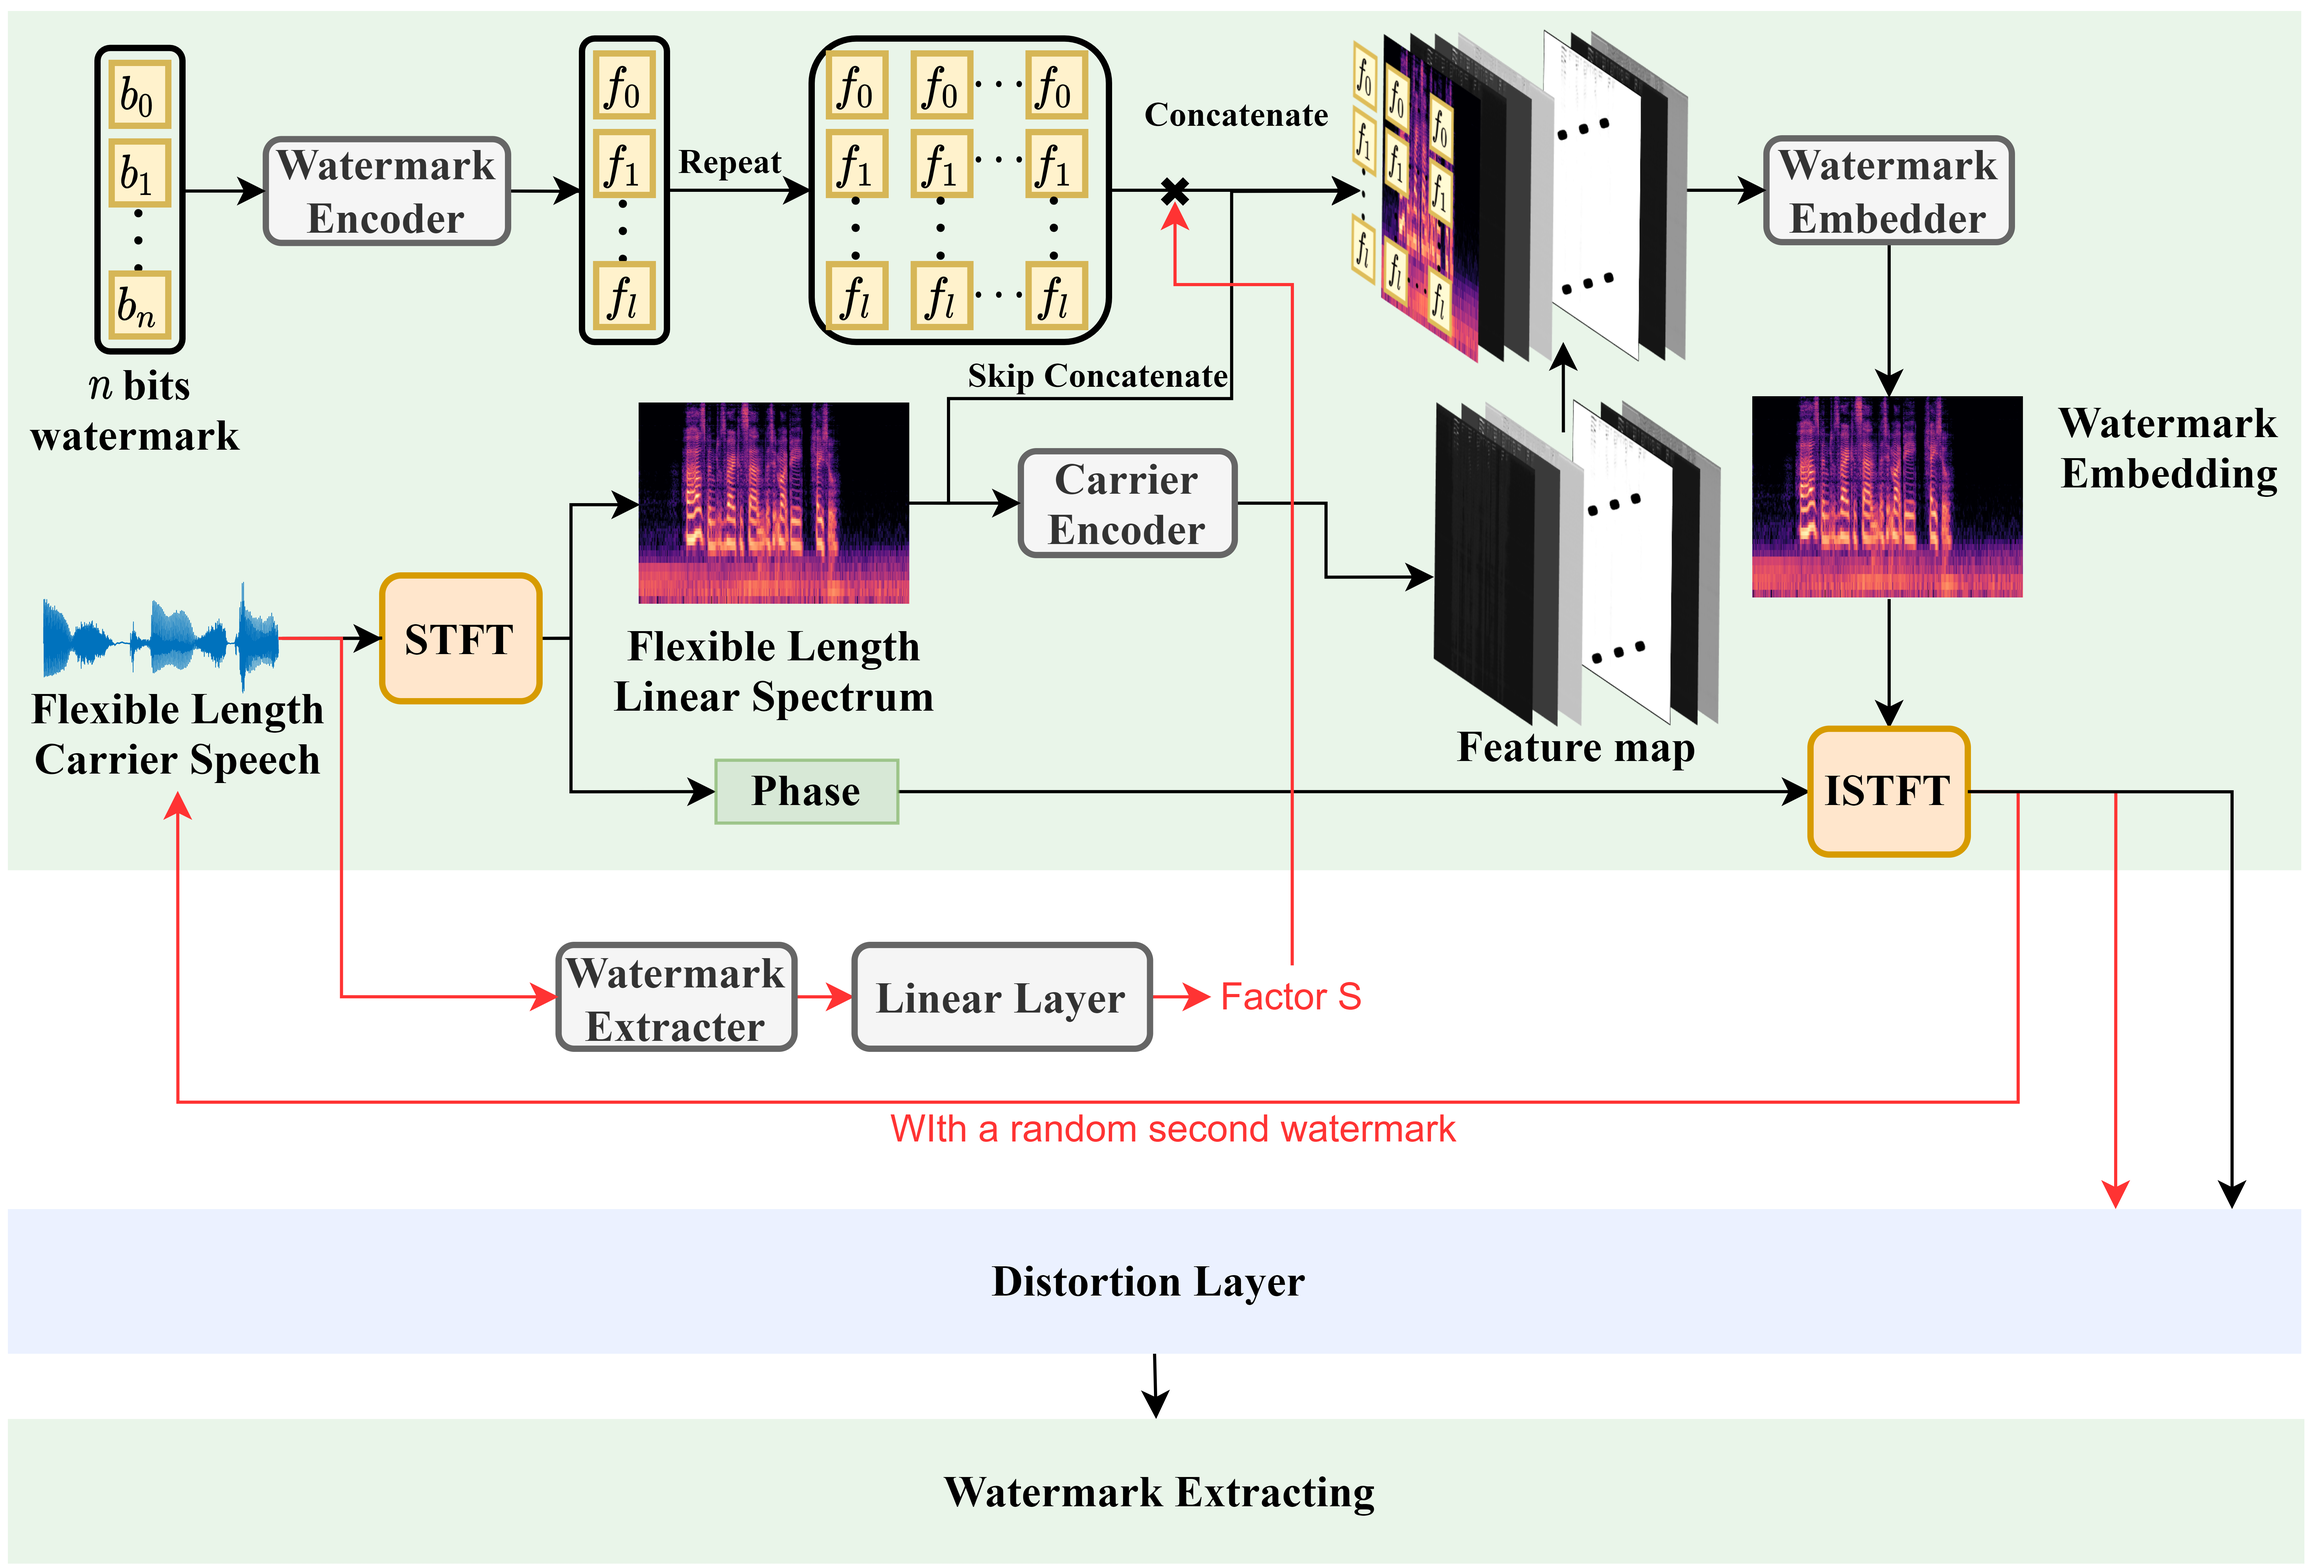
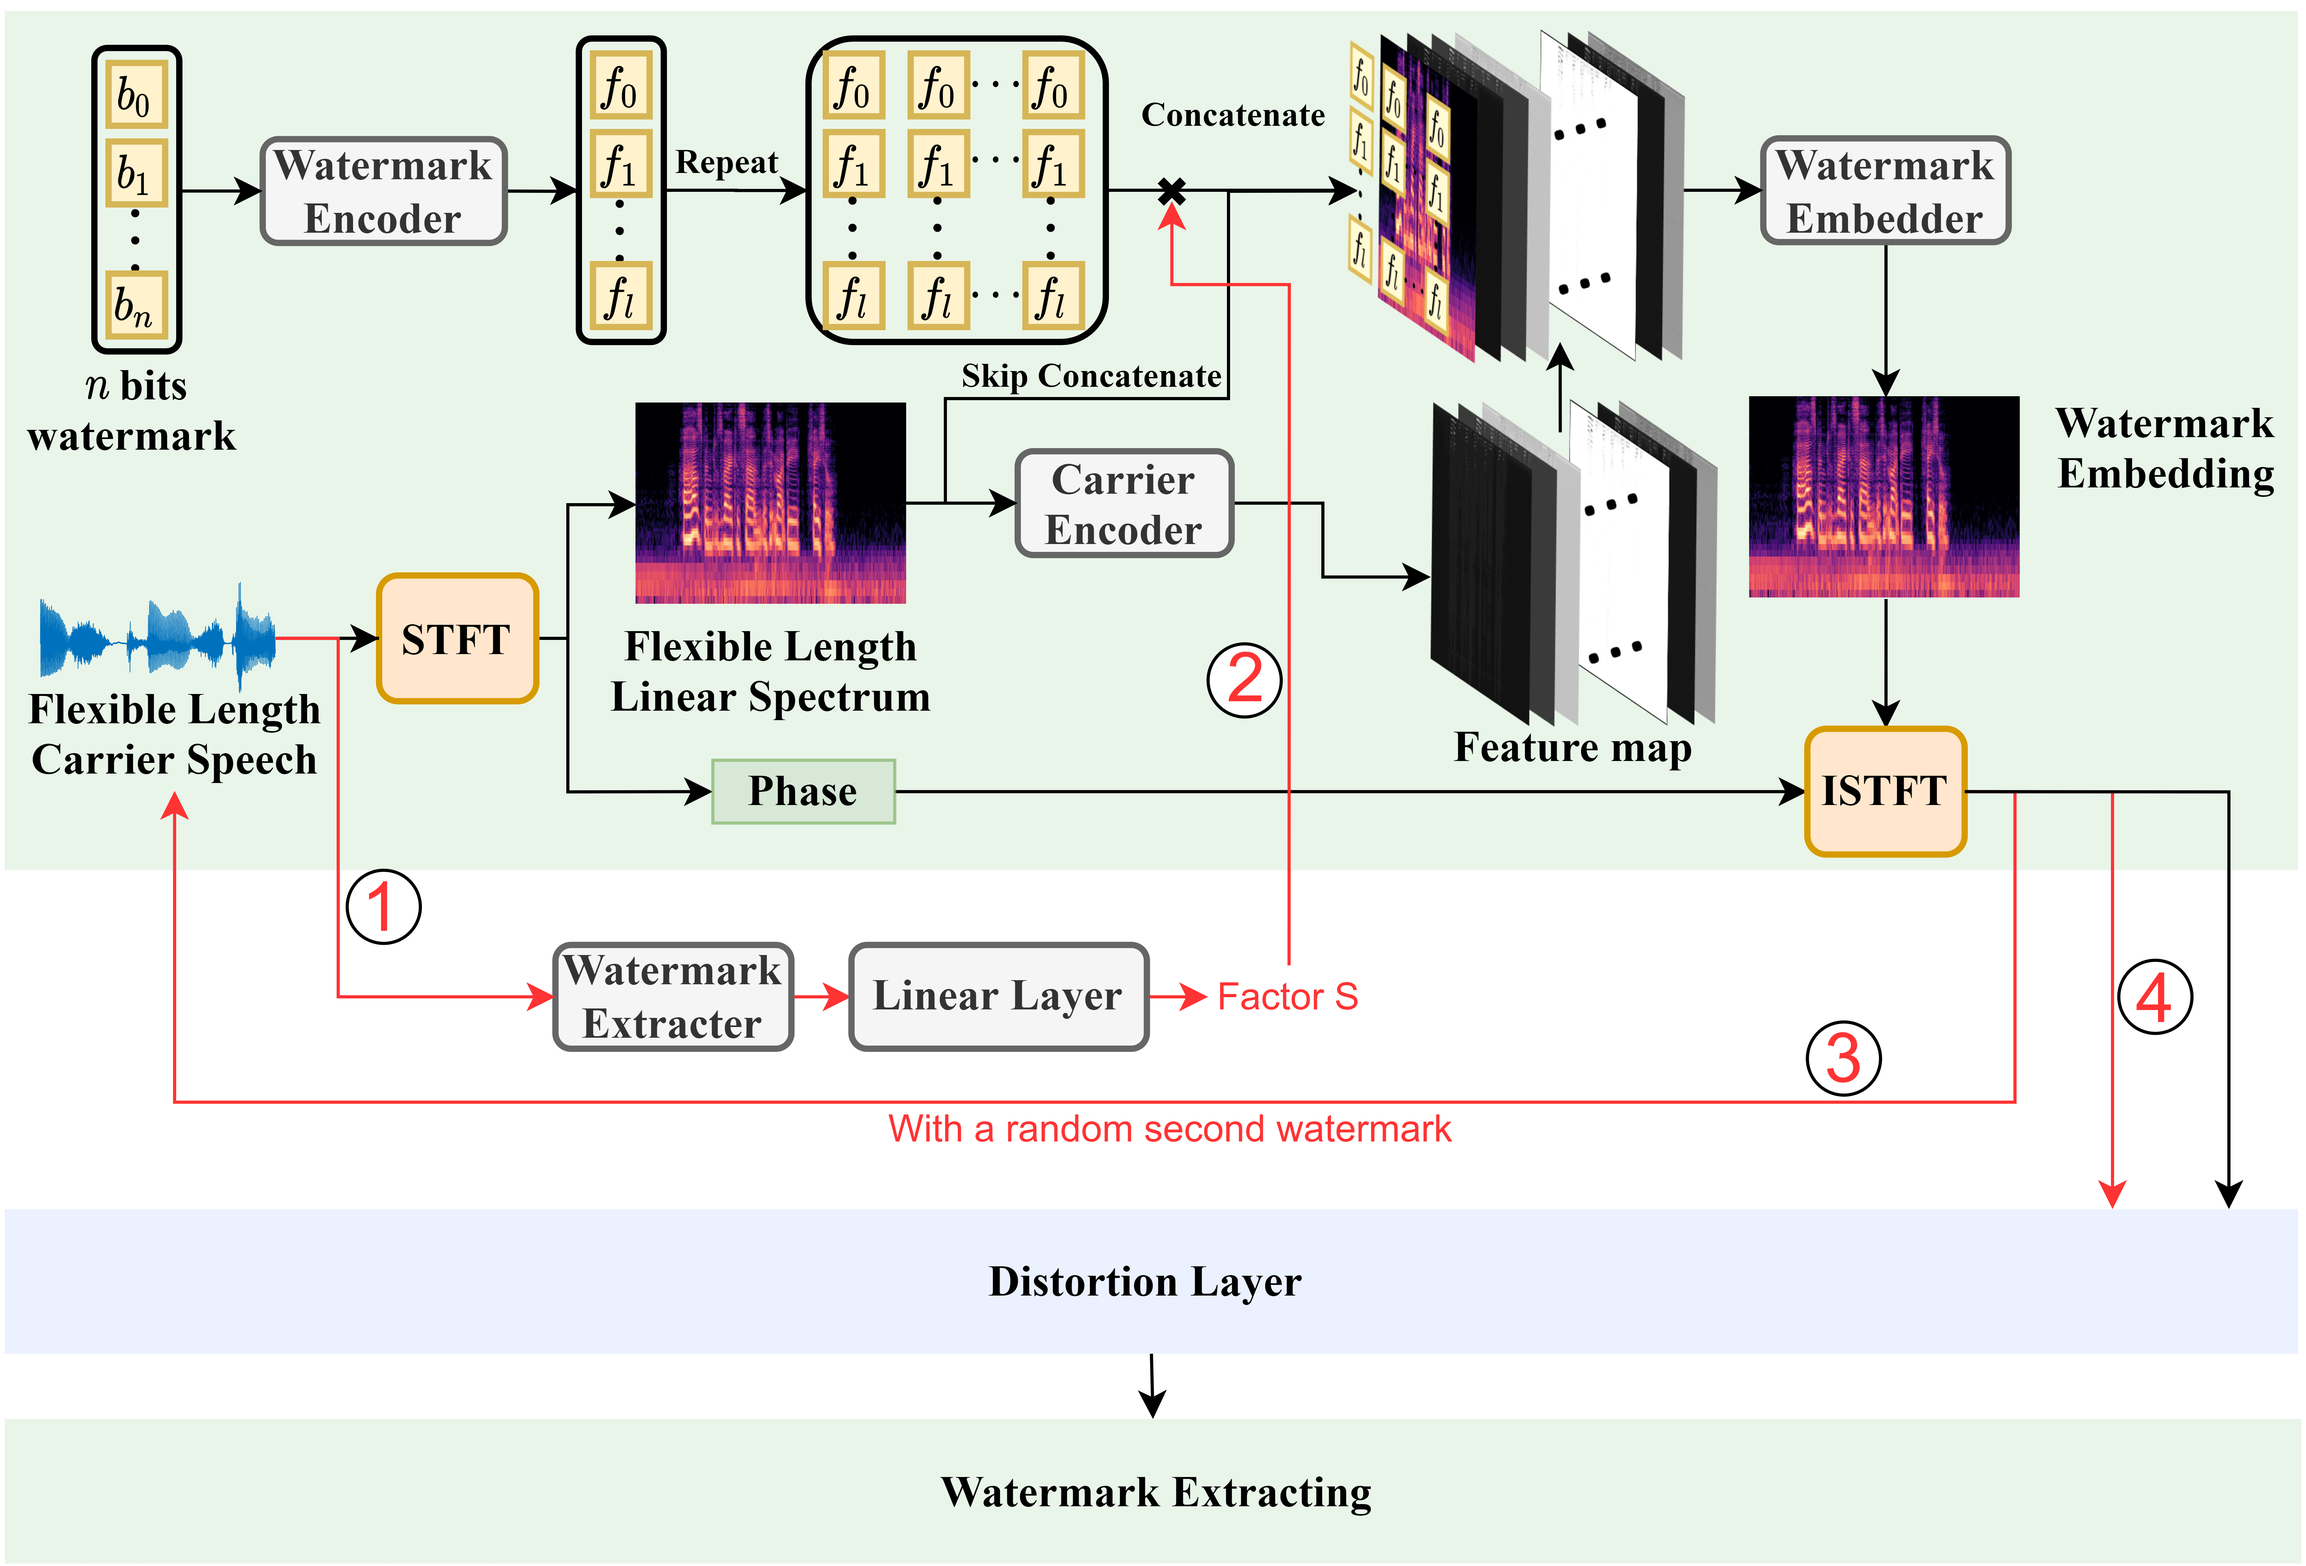
update

diff --git a/more_results.html b/more_results.html
@@ -29,8 +29,9 @@
 <section class="main-content">
       
   <div id="home">
-    <h2>Traditional watermarking samples</h2>
-    Traditional watermarking schemes are also reliably imperceptible, and some of their watermark samples are shown below, but they usually require strict synchronization mechanisms, which are corrupted by deep speech cloning models.
+    <h2>Samples of current audio watermarking methods</h2>
+    Current watermarking methods are also reliably imperceptible, some of their watermark samples are shown below. In the case of commonly used signal processing attacks, they can well balance the trade-off between fidelity and normal robustness.
+    But they usually require strict synchronization mechanisms and temporal logic, which are undermined by deep speech cloning models.
     <div class="table-container">
       <table>
         <tr>
@@ -43,14 +44,14 @@
             <td><audio controls><source src="samples\0+Watermark Fidelity\original cover\LJ001-0005.wav" type="audio/wav"></audio></td>
           </tr>
           <tr>
-            <td><a href="https://ieeexplore.ieee.org/document/9468371">FSVC</a></td><td><audio controls><source src="samples\0+Watermark Fidelity\FSVC\LJ001-0001.wav" type="audio/wav"></audio></td>
+            <td>FSVC<a href="https://ieeexplore.ieee.org/document/9468371">[1]</a></td><td><audio controls><source src="samples\0+Watermark Fidelity\FSVC\LJ001-0001.wav" type="audio/wav"></audio></td>
             <td><audio controls><source src="samples\0+Watermark Fidelity\FSVC\LJ001-0002.wav" type="audio/wav"></audio></td>
             <td><audio controls><source src="samples\0+Watermark Fidelity\FSVC\LJ001-0003.wav" type="audio/wav"></audio></td>
             <td><audio controls><source src="samples\0+Watermark Fidelity\FSVC\LJ001-0004.wav" type="audio/wav"></audio></td>
             <td><audio controls><source src="samples\0+Watermark Fidelity\FSVC\LJ001-0005.wav" type="audio/wav"></audio></td>
           </tr>
           <tr>
-            <td><a href="https://ieeexplore.ieee.org/document/8470100">RFDLM</a></td><td><audio controls><source src="samples\0+Watermark Fidelity\RFDLM\LJ001-0001.wav" type="audio/wav"></audio></td>
+            <td>RFDLM<a href="https://ieeexplore.ieee.org/document/8470100">[2]</a></td><td><audio controls><source src="samples\0+Watermark Fidelity\RFDLM\LJ001-0001.wav" type="audio/wav"></audio></td>
             <td><audio controls><source src="samples\0+Watermark Fidelity\RFDLM\LJ001-0002.wav" type="audio/wav"></audio></td>
             <td><audio controls><source src="samples\0+Watermark Fidelity\RFDLM\LJ001-0003.wav" type="audio/wav"></audio></td>
             <td><audio controls><source src="samples\0+Watermark Fidelity\RFDLM\LJ001-0004.wav" type="audio/wav"></audio></td>
@@ -62,17 +63,19 @@
       
 
     <h2>Distortion caused by ISTFT</h2>
-    In order to explore the impact of ISTFT distortion, we calculated the difference between the amplitude spectrum after embedding the watermark and the amplitude spectrum after performing ISTFT and STFT on it. 
+    In order to explore the impact of the loss of the complex imaginary part due to the ISTFT in the watermarking scheme, we calculated the difference between the amplitude spectrum after embedding the watermark and the amplitude spectrum after performing ISTFT and STFT on it. 
     It can be found that the difference between them is so small (i.e., average MSE 0.0020) that it does not destroy the watermarked signal. 
     A spectrogram example and the MSE of amplitude spectrum pair from all 2620 test samples are shown below.
     <div style="display: flex;">
       <div style="flex: 1; margin: 10px;">
-          <img src="figure/linear_wmed_amplitude_spectrogram.png" alt="Watermarked spectrum">
-          <p style="text-align: center; font-size: 13px; font-style:italic;">Watermarked spectrum</p>
+          <img src="figure/linear_wmed_amplitude_spectrogram.png" alt="Watermarked spectrum" width="89%">
+          <div style="width: 89%; ">
+          <p style="text-align: center; font-size: 13px; font-style:italic;">Watermarked spectrum</p></div>
       </div>
       <div style="flex: 1; margin: 10px;">
-          <img src="figure/linear_wmed_istft_stft_amplitude_spectrogram.png" alt="Watermarked spectrum &rarr; ISTFT &rarr; STFT">
-          <p style="text-align: center; font-size: 13px; font-style:italic;">Watermarked spectrum &rarr; ISTFT &rarr; STFT</p>
+          <img src="figure/linear_wmed_istft_stft_amplitude_spectrogram.png" alt="Watermarked spectrum &rarr; ISTFT &rarr; STFT" width="89%">
+          <div style="width: 89%;">
+          <p style="text-align: center; font-size: 13px; font-style:italic;">Watermarked spectrum &rarr; ISTFT &rarr; STFT</p></div>
       </div>
       <div style="flex: 1; margin: 10px;">
         <img src="figure/istft-mse-1.png" alt="istft-mse">
@@ -101,7 +104,7 @@
 
 
 
-    <h2>The effect of skip concatenate</h2>
+    <h2>A Concatenated Skip Connection</h2>
     We performed ablation experiments for skip concatenate with the following experimental results, which show that this operation only slightly improves fidelity and robustness.
     <!-- <div style="display: flex;">
       <div style="flex: 1; margin: 10px; text-align: center;">
@@ -132,8 +135,11 @@
     
 
 
-    <h2>Robustness against audio reconstruction</h2>
-    We tried to train a VAE model for watermark erasure using (wmed,non-wmed) audio pairs, here we used <a href="https://github.com/moiseshorta/MelSpecVAE">MelVAE</a> and 10,000 audio from Librispeech for training. 
+    <h2>Robustness against adaptive removal attacks.</h2>
+    The adaptive attackers may try to train a VAE model for watermark erasure using (wmed,non-wmed) audio pair. This attack setting is actually not practical, 
+    because the attacker needs to directly obtain our watermark embedding model or train a watermark model by himself after fully mastering all the details of the watermark algorithm 
+    (network structure, training data, etc.) and utilize the watermark embedding module in it to carry out the attack, 
+    which we attempted to simulate by using <a href="https://github.com/moiseshorta/MelSpecVAE">MelVAE</a> and 10, 000 audios from Librispeech for training.
     The resulting VAE model can only produce poor quality speech (samples are shown below). This may be due to the fact that it is difficult for VAE to learn to erase watermarks while maintaining good quality. 
     But the accuracy of watermark extraction can still reach 74.90%.
     <div class="table-container">
@@ -148,7 +154,7 @@
             <td><audio controls><source src="samples\0+Watermark Fidelity\wm-1\LJ001-0005.wav" type="audio/wav"></audio></td>
           </tr>
           <tr>
-            <td>Reconstructed</td><td><audio controls><source src="samples\16+VAE1\LJ001-0001.wav" type="audio/wav"></audio></td>
+            <td>VAE Reconstructed</td><td><audio controls><source src="samples\16+VAE1\LJ001-0001.wav" type="audio/wav"></audio></td>
             <td><audio controls><source src="samples\16+VAE1\LJ001-0002.wav" type="audio/wav"></audio></td>
             <td><audio controls><source src="samples\16+VAE1\LJ001-0003.wav" type="audio/wav"></audio></td>
             <td><audio controls><source src="samples\16+VAE1\LJ001-0004.wav" type="audio/wav"></audio></td>
@@ -159,7 +165,8 @@
     <br>
     <br>
 
-    We further use the existing pre-trained clean VAE model for watermark erasure testing, as it will tend to output data close to the training data (clean) distribution. 
+    <!-- <h2>Robustness against VAE reconstruction attacks.</h2>
+    We further use the existing pre-trained clean VAE model for watermark destroy testing, as it will tend to output data close to the training data (clean) distribution. 
     For experimental rigor, we used the VAE of the audio generation model <a href="https://arxiv.org/abs/2301.12503">AudioLDM</a> for the reconstruction operation, noting that, as described by the authors, 
     this VAE was trained on <a href=https://ieeexplore.ieee.org/abstract/document/7952261>AudioSet</a>, <a href=https://audiocaps.github.io/>AudioCaps</a>, <a href="https://freesound.org/">Freesound</a>, 
     and <a href=https://sound-effects.bbcrewind.co.uk/search>BBC Sound Effect library</a> and does not have any crossover with the speech dataset <a href=https://ieeexplore.ieee.org/document/7178964>Librispeech</a>, 
@@ -195,7 +202,7 @@
           <p style="text-align: center; font-size: 13px; font-style:italic;">The performance of our method against voice cloning attacks with VAE reconstruction propressing and the quality of synthesized speechs. (a): Voice-Clone without VAE Reconstruction preprocessing; (b): Voice-Clone with VAE Reconstruction preprocessing; 
             Black dots and white dots indicate mean value and median value, respectively.</p>
       </div></div>
-    </div>
+    </div> -->
 
 
     <h2>More discussion on adaptive attacks</h2>
@@ -240,7 +247,7 @@
         <p style="text-align: center; font-size: 13px; font-style:italic;">The impact of different post processing with prior Harmful processing on the speech quality and robustness.</p>
     </div>
     </div>
-    <br>
+    <!-- <br>
     <br>
     <div style="display: flex;">
       <div style="flex: 1; margin: 10px; text-align: center;">
@@ -251,7 +258,7 @@
         <img src="figure/a-8.png" alt="" width="100%">
         <p style="text-align: center; font-size: 13px; font-style:italic;">The impact of different post processing with prior Domain-adv training on the speech quality and robustness.</p>
     </div>
-    </div>
+    </div> -->
     <!-- <br>
     <br>
     <div style="display: flex;">
@@ -293,7 +300,10 @@ As shown in Table V in the original manuscript, an internal adpative attacker ca
 To address it, we designed a mechanism to resist watermark overwriting of insider malicious users. 
 We affect the embedding process by applying a weight from the watermark decoder to the watermark feature, 
 and add the watermark overwriting distortion in the original distortion layer to fine-tune the model, and the final enhanced model can resist the re-watermark attack (ACC: 100%).
-The model structure is shown below.
+<p></p>
+The model structure is shown below. &#9312;: Extract the weight factor <b>S</b> from the audio to be watermarked; &#9313;: Use factor <b>S</b> to weight the watermark features in the watermark embedding network; 
+&#9314;: Input the watermarked audio and a randomly generated second watermark into the watermark embedding network;
+&#9315;: Input the watermark overwrited audio into the distortion layer and proceed to subsequent watermark extraction and network parameter optimization.
 <div style="display: flex;">
   <div style="flex: 1; margin: 10px; text-align: center;">
       <img src="figure/new_structure.gif" alt="" width="100%">
